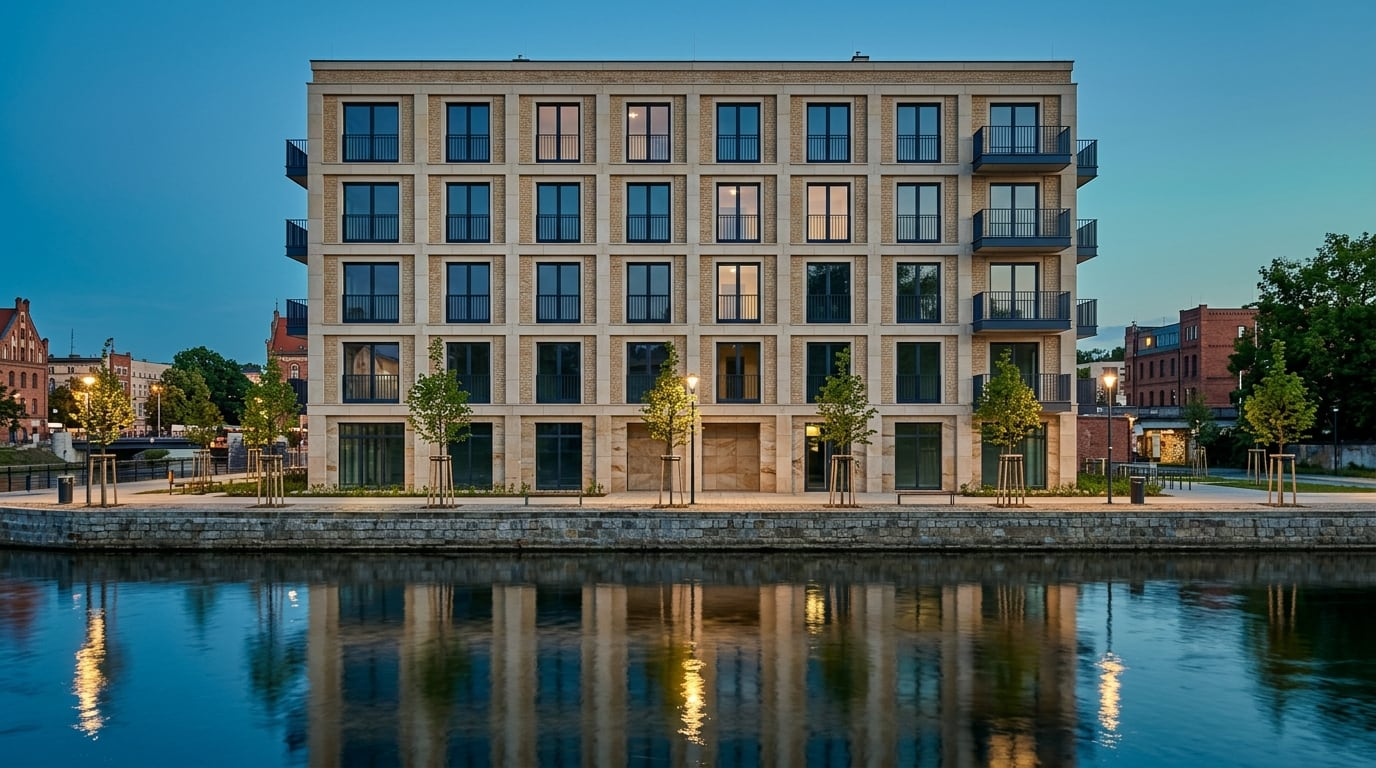
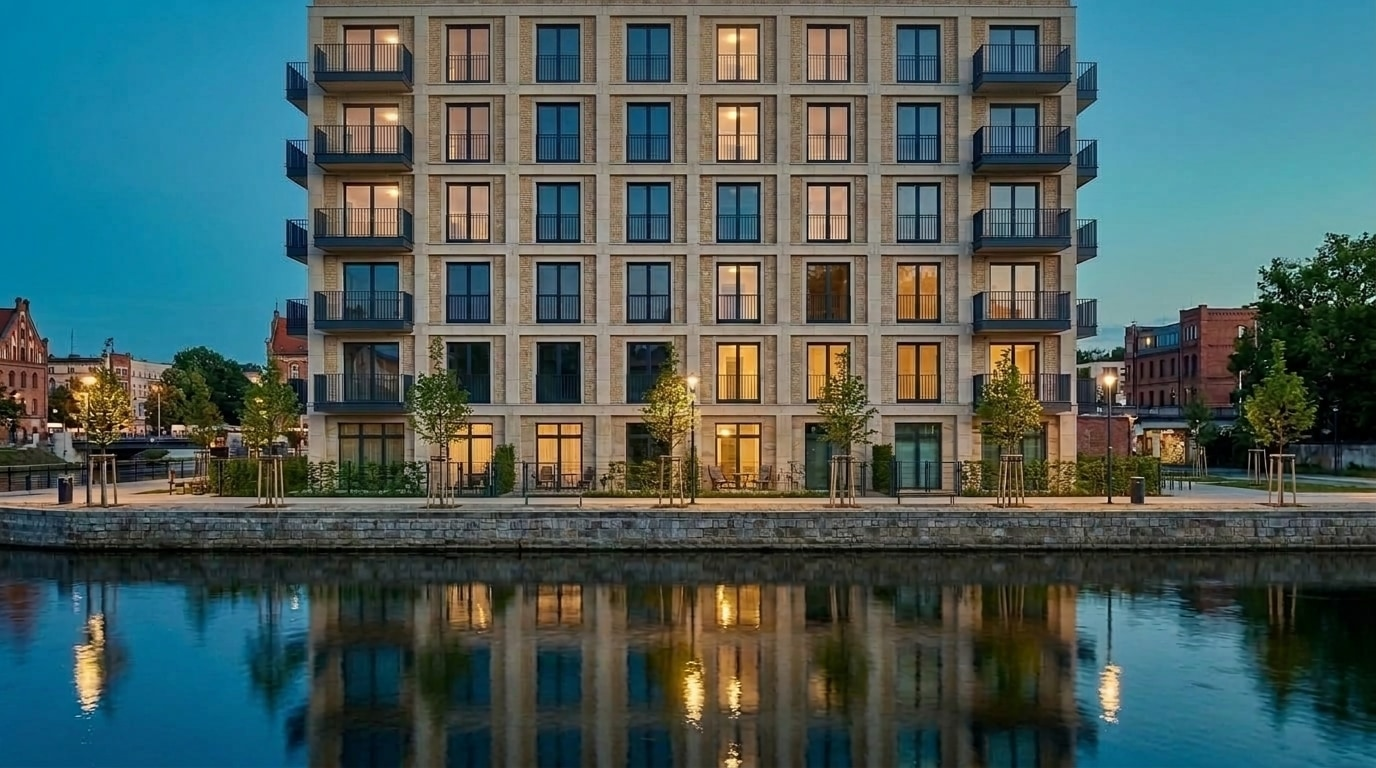
Obraz = tekst: metraże dokładnie z rzutu, hero z 6 kondygnacjami, M-01 bez okien na dwie strony, balustrady stalowe

diff --git a/scripts/seed-tresci.php b/scripts/seed-tresci.php
@@ -225,14 +225,14 @@ return [
             'seo' => 'Okolica inwestycji Delta: bulwar, Wyspa Młyńska, Stary Rynek, szkoła i tramwaj w zasięgu spaceru. Standard wykończenia budynku.',
             'punkty' => [['Bulwar nad Brdą', 1, 'pieszo'], ['Przystanek tramwajowy', 3, 'pieszo'], ['Szkoła podstawowa', 6, 'pieszo'], ['Wyspa Młyńska', 8, 'pieszo'], ['Stary Rynek', 12, 'pieszo'], ['Dworzec Bydgoszcz Główna', 9, 'tramwajem']],
             'standard_naglowek' => 'Standard, który widać od progu',
-            'standard' => ['Pomieszczenia o wysokości 2,75 m', 'Okna trzyszybowe z podwyższoną izolacją akustyczną', 'Ogrzewanie podłogowe z miejskiej sieci', 'Balkony i tarasy z balustradą ze szkła i stali', 'Winda z garażu na każde piętro', 'Komórki lokatorskie i rowerownia', 'Stanowiska do ładowania aut elektrycznych', 'Monitoring części wspólnych'],
+            'standard' => ['Pomieszczenia o wysokości 2,75 m', 'Okna trzyszybowe z podwyższoną izolacją akustyczną', 'Ogrzewanie podłogowe z miejskiej sieci', 'Balkony i tarasy z balustradą ze stali', 'Winda z garażu na każde piętro', 'Komórki lokatorskie i rowerownia', 'Stanowiska do ładowania aut elektrycznych', 'Monitoring części wspólnych'],
         ],
         'en' => [
             'wstep' => 'A quiet part of town by the water, yet only minutes from the centre. See how long it takes to get to the places you go most often.',
             'seo' => 'Around Delta: the boulevard, Mill Island, the Old Market Square, a school and trams within walking distance. Building finish standard.',
             'punkty' => [['Brda boulevard', 1, 'pieszo'], ['Tram stop', 3, 'pieszo'], ['Primary school', 6, 'pieszo'], ['Mill Island', 8, 'pieszo'], ['Old Market Square', 12, 'pieszo'], ['Bydgoszcz Główna station', 9, 'tramwajem']],
             'standard_naglowek' => 'Quality you notice at the door',
-            'standard' => ['Ceilings 2.75 m high', 'Triple-glazed windows with extra sound insulation', 'Underfloor heating from the city network', 'Balconies and terraces with glass and steel railings', 'Lift from the garage to every floor', 'Storage rooms and a bike room', 'Charging points for electric cars', 'CCTV in common areas'],
+            'standard' => ['Ceilings 2.75 m high', 'Triple-glazed windows with extra sound insulation', 'Underfloor heating from the city network', 'Balconies and terraces with steel railings', 'Lift from the garage to every floor', 'Storage rooms and a bike room', 'Charging points for electric cars', 'CCTV in common areas'],
         ],
     ],
 
@@ -267,8 +267,8 @@ return [
             'en' => $akapity('Three rooms for a family. The living room and main bedroom face the river, with a smaller room for a child or a home office.'),
         ],
         'E' => [
-            'pl' => $akapity('Narożne trzy pokoje z oknami na dwie strony. Duża sypialnia, osobny pokój i salon z aneksem, w którym zmieści się stół dla sześciu osób.'),
-            'en' => $akapity('A corner three-room apartment with windows on two sides. A large bedroom, a separate room and a living room with space for a table for six.'),
+            'pl' => $akapity('Trzy pokoje z oknami od strony rzeki. Duża sypialnia, osobny pokój i salon z aneksem, w którym zmieści się stół dla sześciu osób.'),
+            'en' => $akapity('A three-room apartment with windows facing the river. A large bedroom, a separate room and a living room with space for a table for six.'),
         ],
         'F' => [
             'pl' => $akapity('Największe mieszkanie w budynku: cztery pokoje, garderoba i duży salon. Na ostatnim piętrze z tarasem z widokiem na rzekę i park.'),

diff --git a/scripts/seed.php b/scripts/seed.php
@@ -298,7 +298,7 @@ for ($pietro = 0; $pietro <= 5; $pietro++) {
     for ($pozycja = 1; $pozycja <= 6; $pozycja++) {
         $typ = $typy[$pozycja - 1];
         $numer = sprintf('M-%d%d', $pietro, $pozycja);
-        $metraz = round($metraze[$typ] + (($pietro % 3) - 1) * 0.3, 1);
+        $metraz = round($metraze[$typ], 1); // dokładnie suma pokoi z rzutu
         $narozne = in_array($pozycja, [1, 2, 5, 6], true);
         $widok = $narozne || $pietro >= 2;
         $balkon = match (true) {
@@ -348,7 +348,7 @@ for ($pietro = 0; $pietro <= 3; $pietro++) {
     for ($pozycja = 1; $pozycja <= 4; $pozycja++) {
         $typ = $typyLipowa[$pozycja - 1];
         $numer = sprintf('L-%d%d', $pietro, $pozycja);
-        $metraz = round($metraze[$typ] + (($pietro % 2) ? 0.4 : -0.2), 1);
+        $metraz = round($metraze[$typ], 1); // dokładnie suma pokoi z rzutu
         $narozne = in_array($pozycja, [1, 4], true);
         $balkon = $pietro === 0 ? 0.0 : ($narozne ? 6.0 : 4.5);
         $cena = (int) (round($metraz * (8900 + $pietro * 180) / 1000) * 1000);
